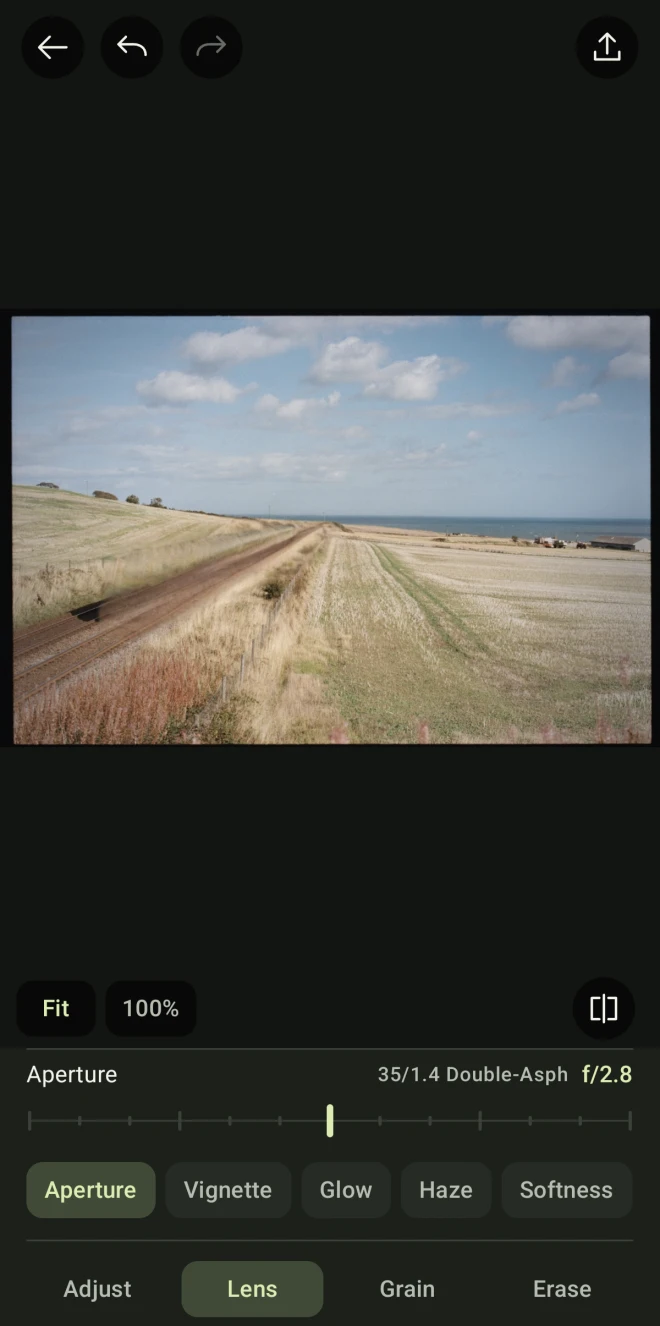
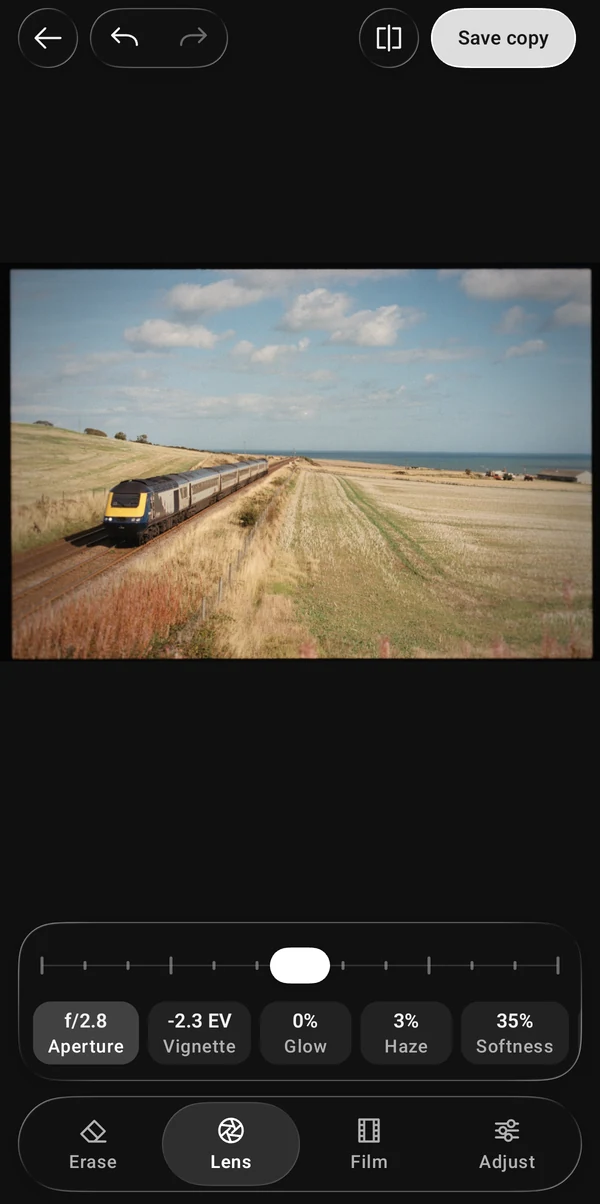
Reshoot README lens and erase screenshots in the glass UI
Replace the 0.11 lens comparison with 0.15 shots and show OSOR removing
the train and its shadow.

diff --git a/README.md b/README.md
@@ -12,7 +12,7 @@ Grainlegit doesn't lay a grain texture over your photo. It exposes the photo ont
   <img src="docs/readme/screen-film.webp" width="24%" alt="Grainlegit's Film tab: a railway landscape on Kodak Gold 200 with floating glass controls">
   <img src="docs/readme/screen-stocks.webp" width="24%" alt="The Film stock sheet showing live previews of Portra 400 and Gold 200 over the photo">
   <img src="docs/readme/screen-lens.webp" width="24%" alt="The Lens tab at f/1.4 with vignette, glow and softness">
-  <img src="docs/readme/screen-erase.webp" width="24%" alt="Erase with the train selected by a single tap">
+  <img src="docs/readme/screen-erase.webp" width="24%" alt="Erase after OSOR removed the train and its shadow">
   <br>
   <sub>Film, stock picker, Lens and Erase in Grainlegit 0.15 on a Xiaomi 17 Ultra.</sub>
 </p>
@@ -36,7 +36,7 @@ Grainlegit doesn't lay a grain texture over your photo. It exposes the photo ont
 Open **Lens** and drag **Aperture** from f/5.6 toward f/1.4. Corners fall off and soften, the centre warms, and bright areas start to glow in the colour of their light. Fine-tune **Vignette**, **Glow**, **Haze**, **Softness** and **Edge warmth**, or turn up **Ghosts** for flare opposite the brightest highlight. The lens works before the film, so grain stays crisp even where the lens softens the image.
 
 <p align="center">
-  <img src="docs/readme/lens-f56.webp" width="32%" alt="Railway landscape in Grainlegit's Lens tab at f/5.6 with the lens effect off">
+  <img src="docs/readme/lens-f56.webp" width="32%" alt="Railway landscape in Grainlegit's Lens tab at f/5.6 with no lens falloff">
   <img src="docs/readme/lens-f28.webp" width="32%" alt="The same landscape at f/2.8 with gentle corner falloff">
   <img src="docs/readme/lens-f14.webp" width="32%" alt="The same landscape at f/1.4 with stronger corner falloff and a warmer centre">
   <br>
@@ -46,6 +46,13 @@ Open **Lens** and drag **Aperture** from f/5.6 toward f/1.4. Corners fall off an
 ## Erase anything with on-device AI
 
 Tap an object and SAM 3.1 selects it on the phone's NPU, or paint over it with the brush. A quick fill appears straight away, and then a more precise model refines it. Grainlegit copies full-resolution texture from the surroundings and matches the photo's grain, so the fill doesn't look smeared. For the best results, download the optional OSOR model (4.3 GiB). It also runs on the NPU.
+
+<p align="center">
+  <img src="docs/readme/erase-select.webp" width="32%" alt="The train selected with a single tap, highlighted in Erase">
+  <img src="docs/readme/screen-erase.webp" width="32%" alt="The same landscape after OSOR removed the train and its shadow">
+  <br>
+  <sub>One tap selects the train. OSOR removes it, and a brush stroke over the shadow cleans up the track.</sub>
+</p>
 
 ## Everything else you need
 
